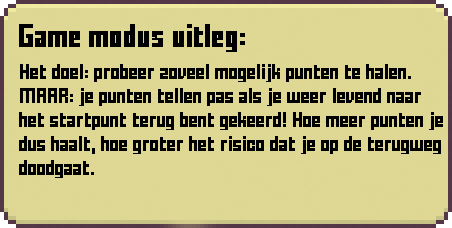
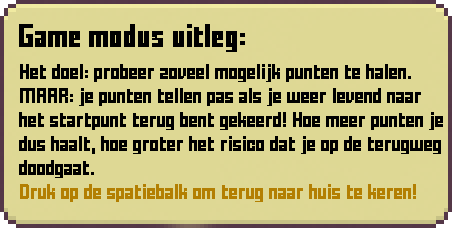
Home modus verbeteren

Changed region(s): [[0.031, 0.7982, 0.9292, 0.8904]]

diff --git a/script.js b/script.js
@@ -42,7 +42,7 @@ const buisBreedte = 100;
 
 // score
 var scoreboardY = canvasHoogte + 199;
-var gameoverOpacity = 0;
+var headerOpacity = 0;
 var score = 0; // aantal behaalde punten
 var highScore = 0;
 var flashOpacity = 255;
@@ -57,6 +57,7 @@ var menuButtonY = canvasHoogte + 42;
 var homeModusButtonY = 600;
 var gameoverFrame;
 var mode = 0; // 0 = normal mode, 1 = home mode
+var aantalFramesNaGewonnen = 0;
 
 // richting uitleg:
 // -2 = reverse (naar links vliegen)
@@ -90,10 +91,12 @@ function resetSpel() {
   spelerX = 120;
   richting = 2;
   scoreboardY = canvasHoogte + 199;
-  gameoverOpacity = 0;
+  headerOpacity = 0;
   playButtonY = canvasHoogte + 87;
   menuButtonY = canvasHoogte + 42;
   flashOpacity = 255;
+  aantalFramesNaGewonnen = 0;
+  countdownScore = -1;
 }
 
 
@@ -152,18 +155,18 @@ var tekenScore = function() {
   }
   if(mode === 1 && countdownScore >= 0) {
     digits = countdownScore.toString().length;
-    y = 180;
+    y = 160;
     push();
     tint(0, 180, 0);
     if(digits === 1) {
-      image(cijfers[countdownScore], canvasBreedte / 2, y, 48, 72);
+      image(cijfers[countdownScore], canvasBreedte / 2, y, 24, 36);
     } else if(digits === 2) {
-      image(cijfers[countdownScore.toString()[0]], canvasBreedte / 2 - 25, y, 48, 72);
-      image(cijfers[countdownScore.toString()[1]], canvasBreedte / 2 + 25, y, 48, 72);
+      image(cijfers[countdownScore.toString()[0]], canvasBreedte / 2 - 25, y, 24, 36);
+      image(cijfers[countdownScore.toString()[1]], canvasBreedte / 2 + 25, y, 24, 36);
     } else if(digits === 3) {
-      image(cijfers[countdownScore.toString()[0]], canvasBreedte / 2 - 55, y, 48, 72);
-      image(cijfers[countdownScore.toString()[1]], canvasBreedte / 2, y, 48, 72);
-      image(cijfers[countdownScore.toString()[2]], canvasBreedte / 2 + 55, y, 48, 72);
+      image(cijfers[countdownScore.toString()[0]], canvasBreedte / 2 - 55, y, 24, 36);
+      image(cijfers[countdownScore.toString()[1]], canvasBreedte / 2, y, 24, 36);
+      image(cijfers[countdownScore.toString()[2]], canvasBreedte / 2 + 55, y, 24, 36);
     }
     pop();
   }
@@ -250,9 +253,6 @@ var tekenGameoverMenu = function() {
     // teken scorebord achtergrond
     var dy = scoreboardY - 440;
     scoreboardY -= dy * 0.05;
-    if(gameoverOpacity < 255) {
-      gameoverOpacity+= 5;
-    }
     image(scoreboard, canvasBreedte / 2, scoreboardY, 395, 199);
 
     // teken speelknop
@@ -262,10 +262,23 @@ var tekenGameoverMenu = function() {
     }
     image(playButton, canvasBreedte / 2, playButtonY, 156, 87);
 
-    // teken game over tekst
+    // teken hoofdtekst (game over of gefeliciteerd)
+    if(headerOpacity < 255) {
+      headerOpacity += 5;
+    }
     push();
-    tint(255, gameoverOpacity);
-    image(gameover, canvasBreedte / 2, 200, 288, 63);
+    tint(255, headerOpacity);
+    if(mode === 0) {
+      // bij normale modus
+      image(gameover, canvasBreedte / 2, 200, 288, 63);
+    } else if(countdownScore > 0 || score == 0) {
+      // bij home modus, maar als de speler nog niet levend is teruggekeerd
+      image(gameover, canvasBreedte / 2, 200, 288, 63);
+      image(nietLevendTeruggekeerd, canvasBreedte / 2, 270, 296, 57);
+    } else {
+      // bij home modus als de speler het heeft gehaald
+      image(gefeliciteerd, canvasBreedte / 2, 200, 360, 142);
+    }
     pop();
 
     // teken menuknop
@@ -341,6 +354,8 @@ let groundSprite;
 let background;
 let scoreboard;
 let gameover;
+let gefeliciteerd;
+let nietLevendTeruggekeerd;
 let playButton;
 let homeModusButton;
 let menuButton;
@@ -365,6 +380,8 @@ function preload() {
   background = loadImage('images/background.png');
   scoreboard = loadImage('images/scoreboard.png');
   gameover = loadImage('images/GameOver.png');
+  gefeliciteerd = loadImage('images/Gefeliciteerd.png')
+  nietLevendTeruggekeerd = loadImage('images/NietLevendTeruggekeerd.png');
   playButton = loadImage('images/play.png');
   homeModusButton = loadImage('images/homeModusButton.png');
   menuButton = loadImage('images/menuButton.png');
@@ -480,7 +497,10 @@ function draw() {
       })
       tekenGrond();
       tekenScore();
-      if (checkGameOver()) {
+      if(countdownScore === 0) {
+        aantalFramesNaGewonnen++;
+      }
+      if (checkGameOver() || aantalFramesNaGewonnen > 50) {
         gameoverFrame = frame;
         playButtonY = canvasHoogte + 87;
         menuButtonY = canvasHoogte + 42;
@@ -534,7 +554,7 @@ function keyPressed() {
   if(keyCode === UP_ARROW) {
     input();
   }
-  if(spelStatus === SPELEN && mode === 1 && keyCode === 32) {
+  if(spelStatus === SPELEN && mode === 1 && keyCode === 32 && score > 0) {
     countdownScore = score;
     richting = -1;
   }
